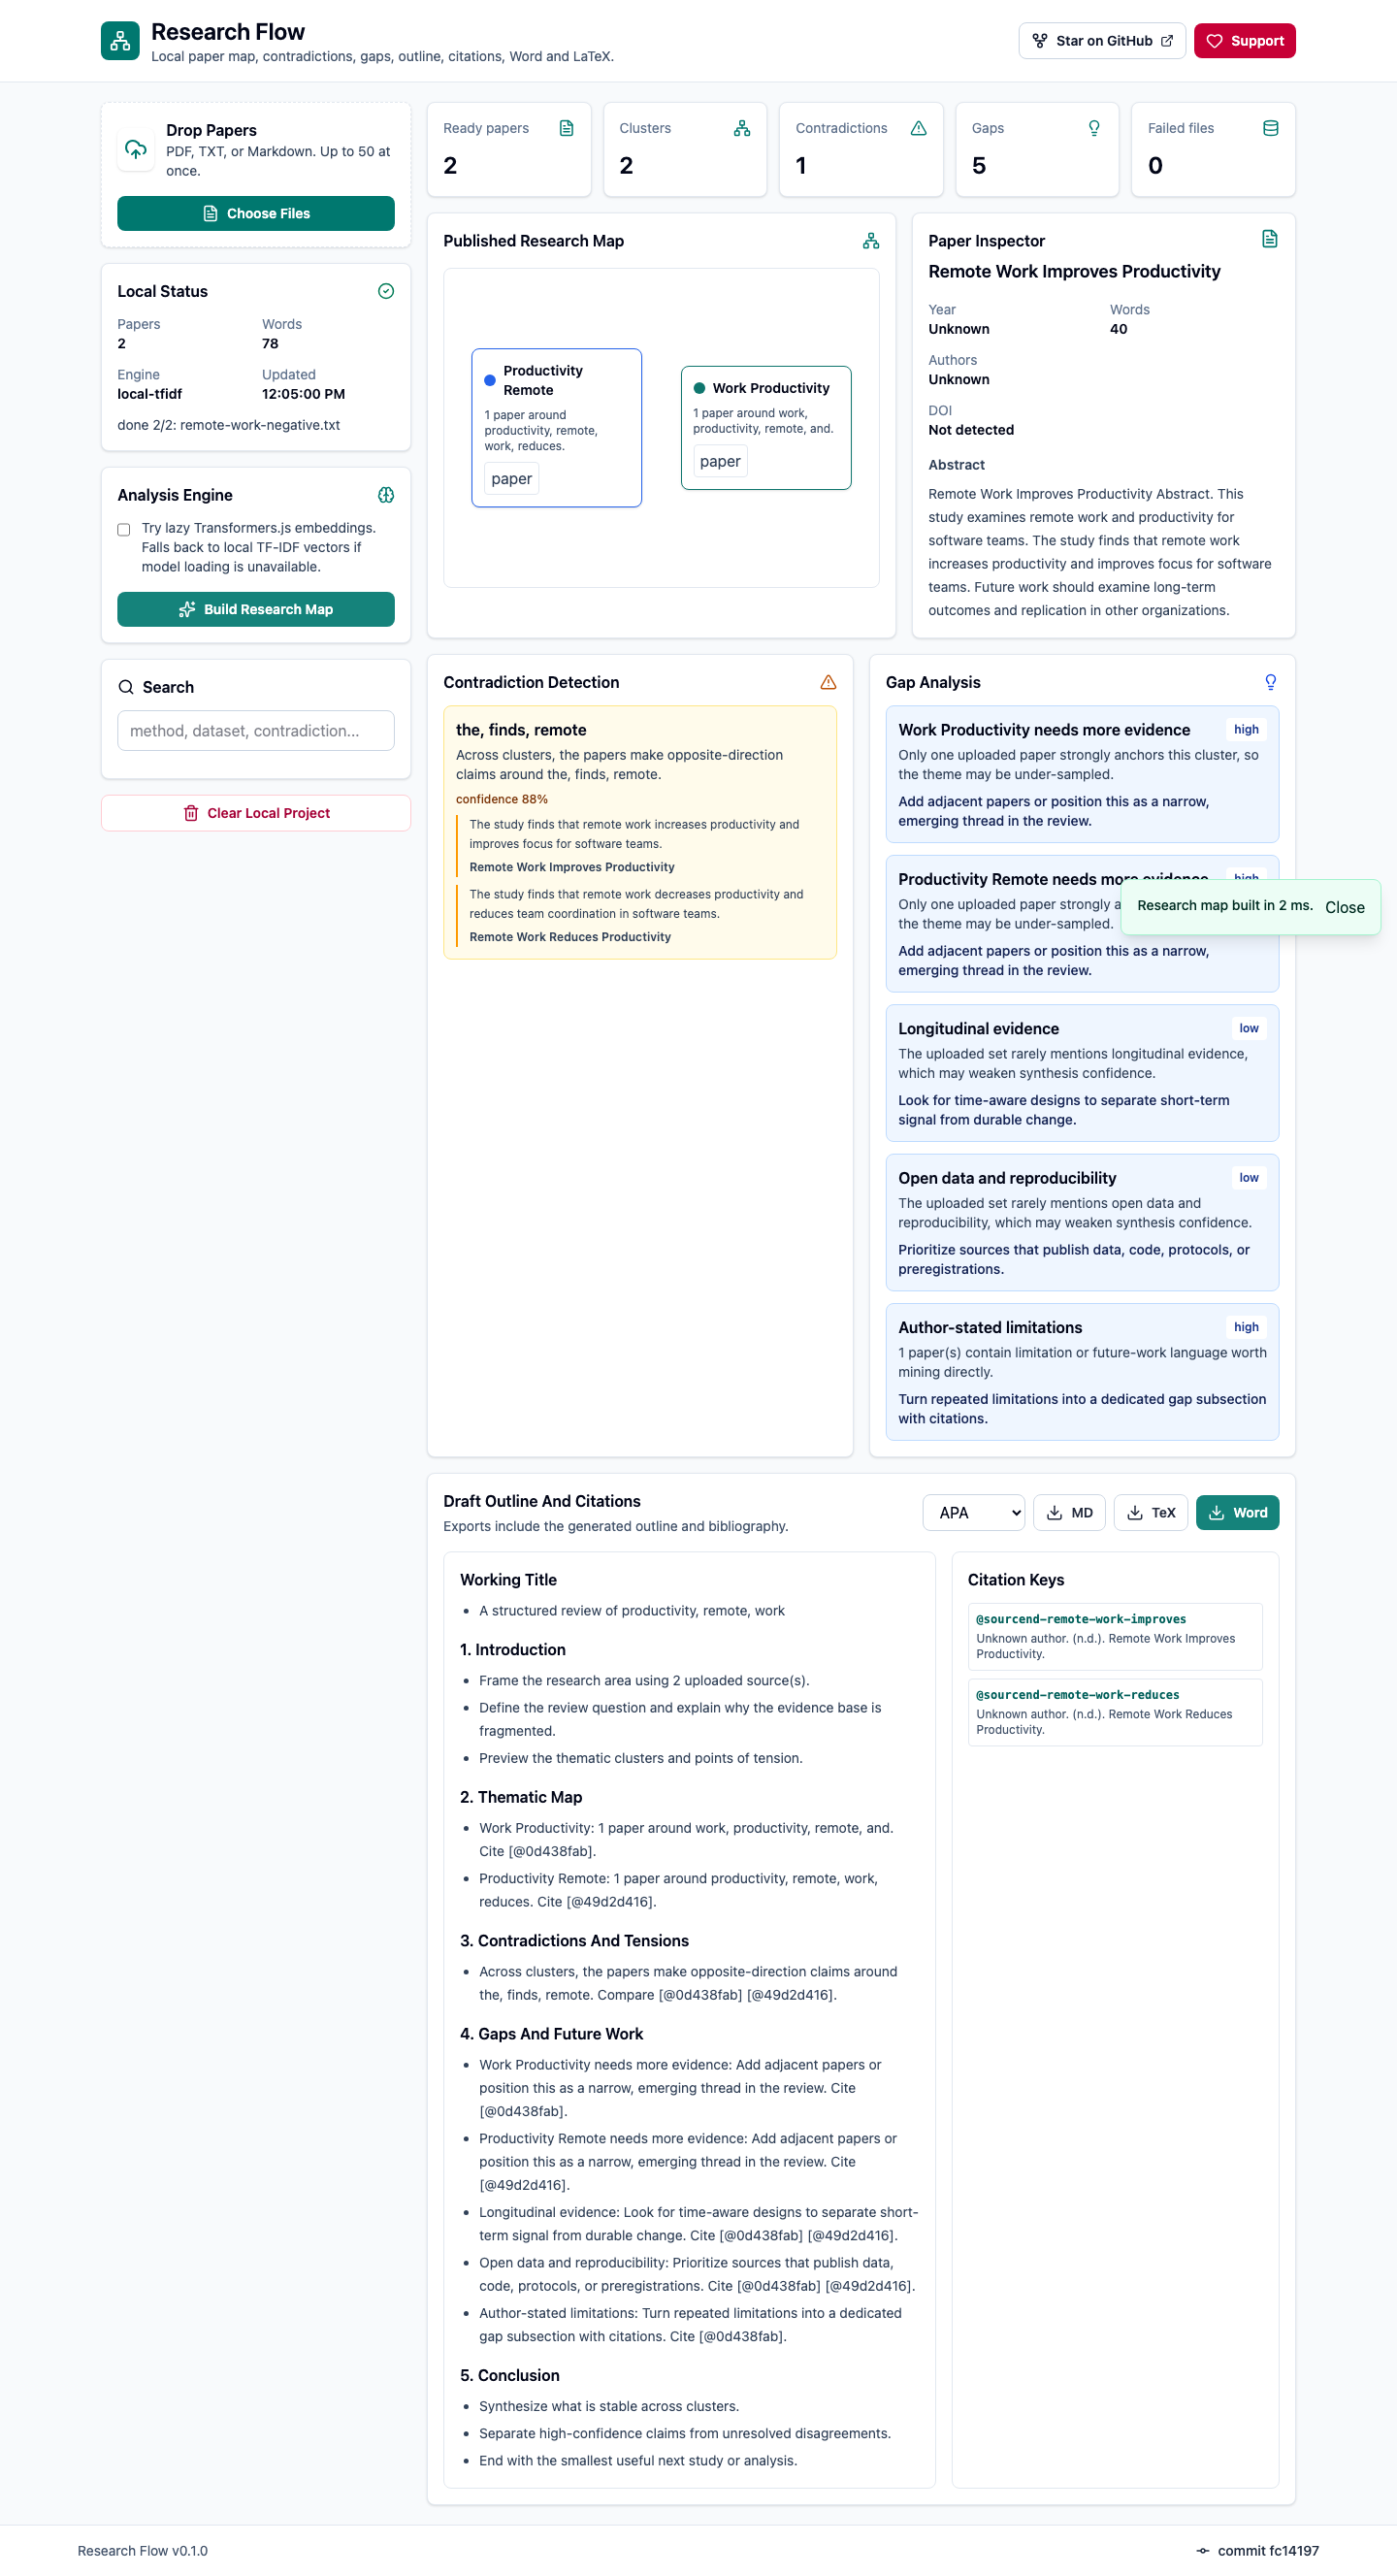
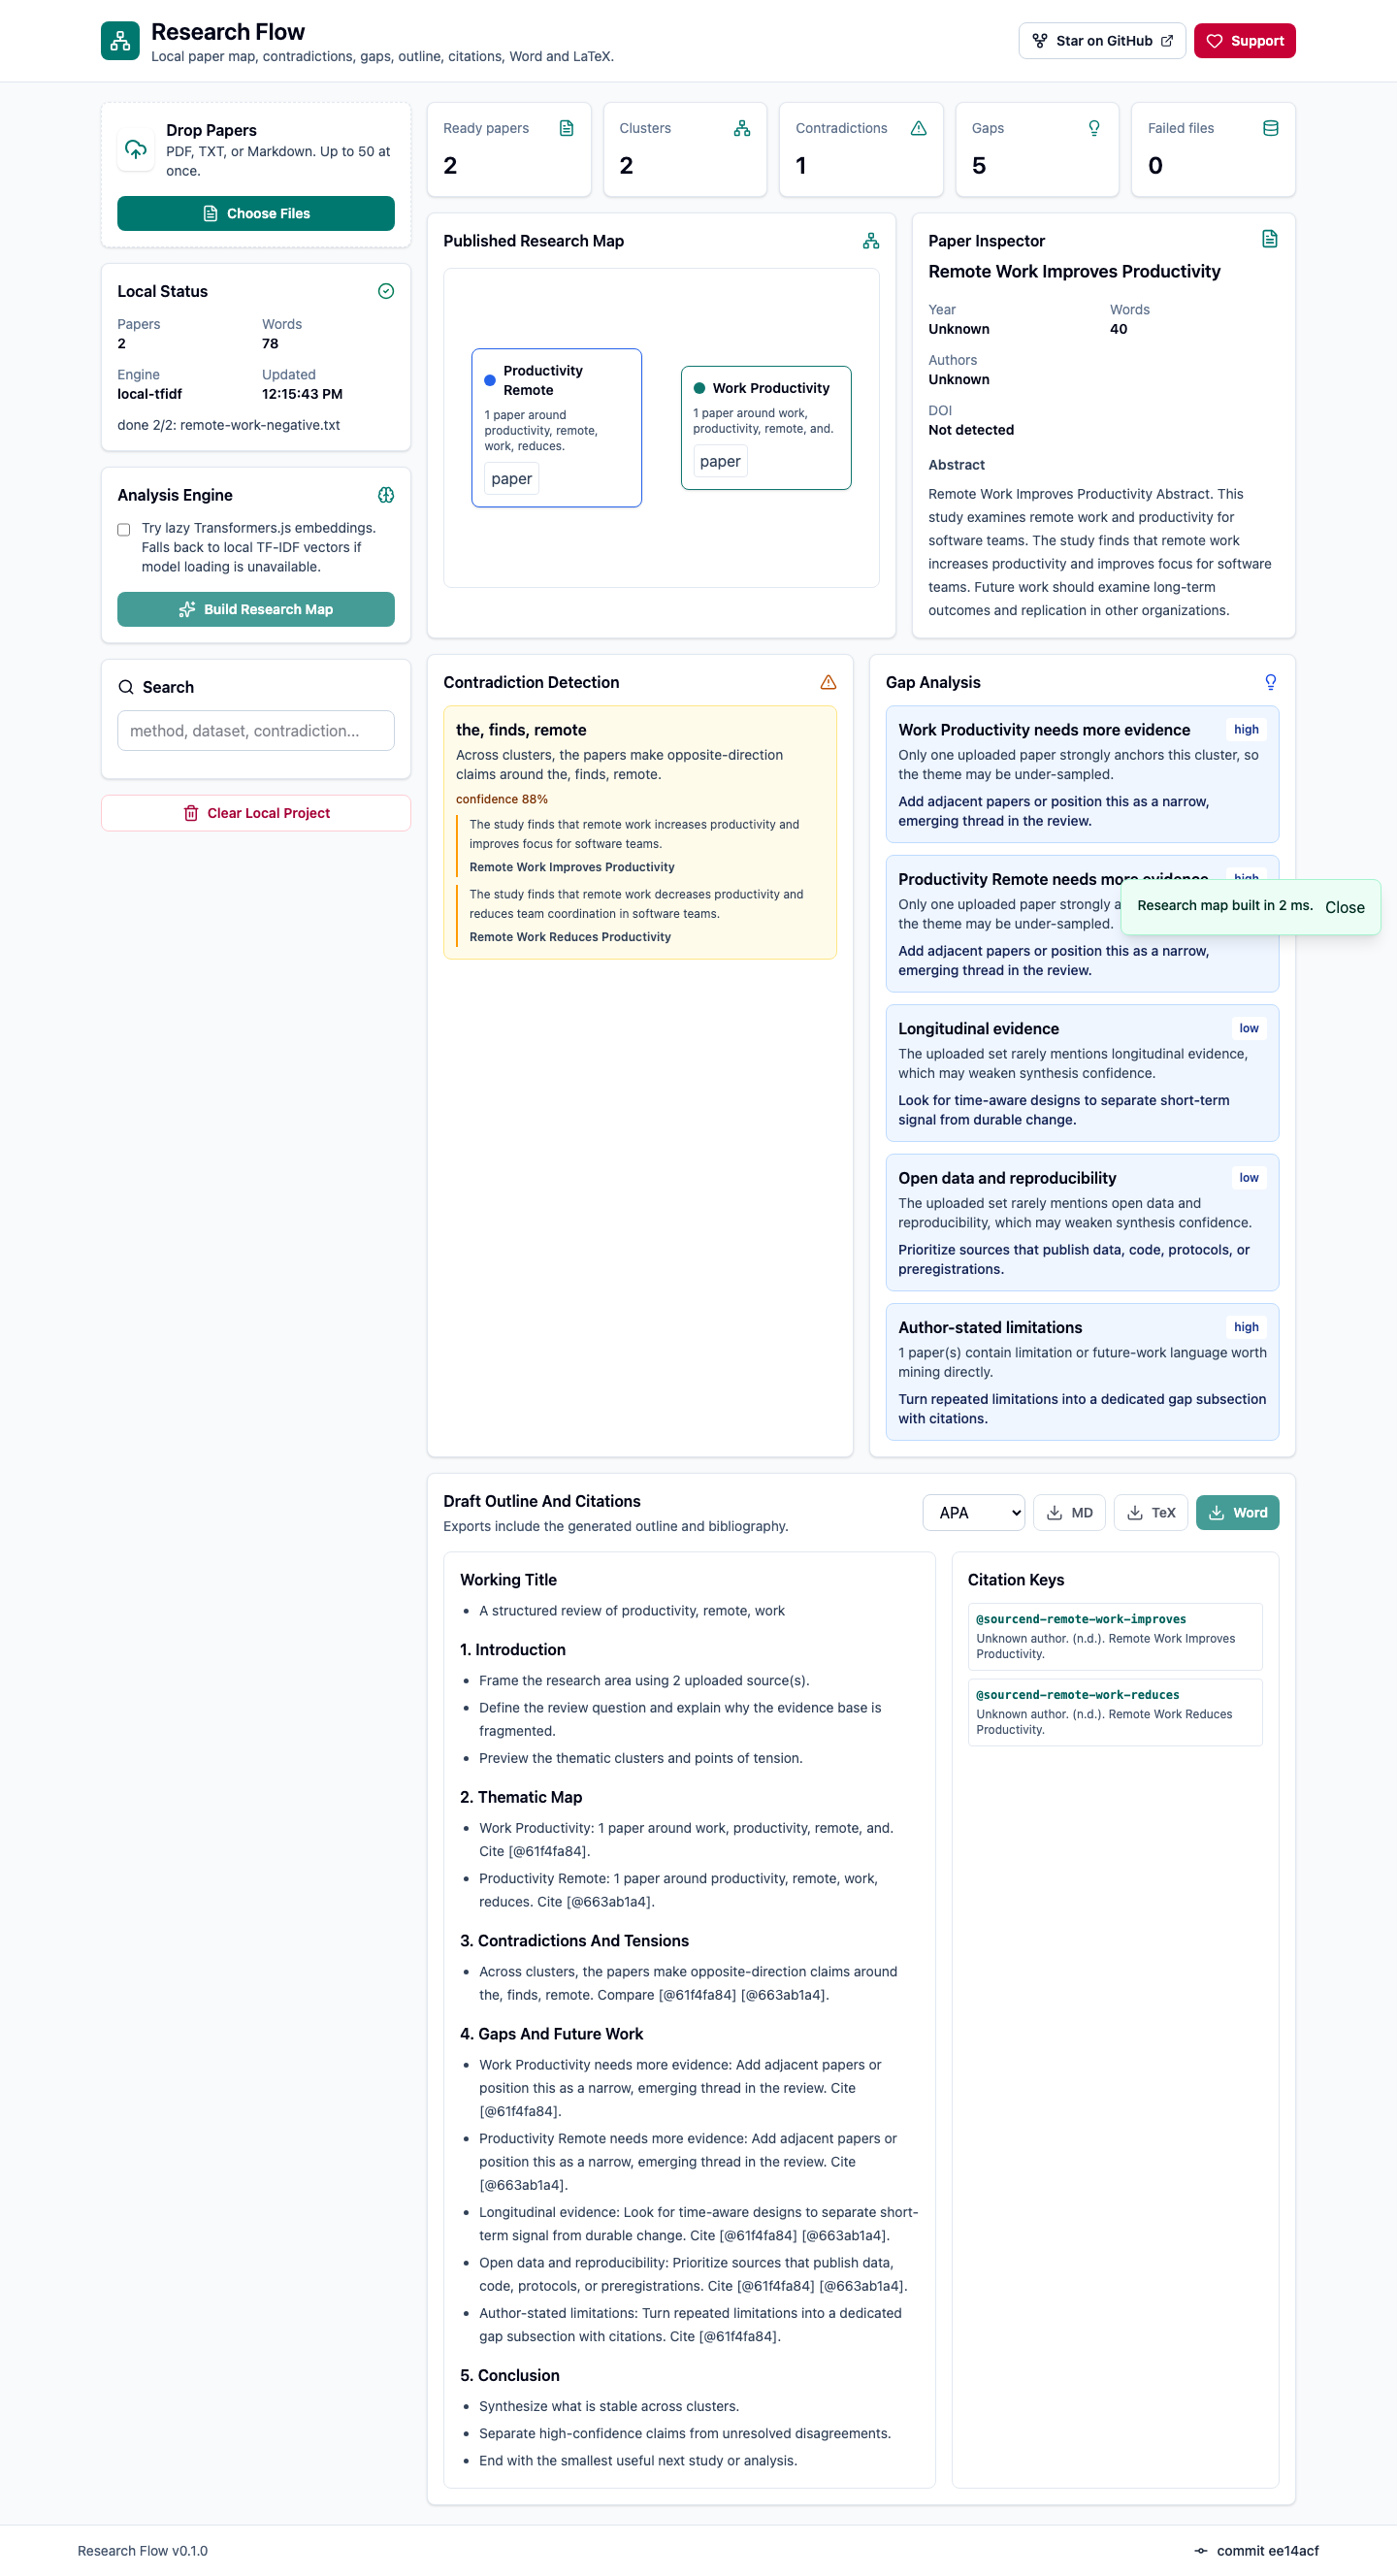
chore: publish pages build metadata

diff --git a/docs/assets/index-DLYIzA8H.js b/docs/assets/index-DLYIzA8H.js
@@ -1,0 +1,46 @@
+const __vite__mapDeps=(i,m=__vite__mapDeps,d=(m.f||(m.f=["assets/exports-D5vGKxcA.js","assets/rolldown-runtime-S-ySWqyJ.js","assets/pdf-v2ivPw7M.js"])))=>i.map(i=>d[i]);
+import{r as e}from"./rolldown-runtime-S-ySWqyJ.js";import{A as t,C as n,D as r,E as i,O as a,S as o,T as s,_ as c,a as l,b as u,c as ee,d,f,g as te,h as ne,i as p,k as m,l as re,m as ie,n as h,o as g,p as _,r as v,s as y,t as b,u as x,v as S,w as C,x as w,y as T}from"./vendor-Bxf50lv0.js";import{r as E}from"./pdf-v2ivPw7M.js";import{t as D}from"./search-C9dw7tVG.js";(function(){let e=document.createElement(`link`).relList;if(e&&e.supports&&e.supports(`modulepreload`))return;for(let e of document.querySelectorAll(`link[rel="modulepreload"]`))n(e);new MutationObserver(e=>{for(let t of e)if(t.type===`childList`)for(let e of t.addedNodes)e.tagName===`LINK`&&e.rel===`modulepreload`&&n(e)}).observe(document,{childList:!0,subtree:!0});function t(e){let t={};return e.integrity&&(t.integrity=e.integrity),e.referrerPolicy&&(t.referrerPolicy=e.referrerPolicy),e.crossOrigin===`use-credentials`?t.credentials=`include`:e.crossOrigin===`anonymous`?t.credentials=`omit`:t.credentials=`same-origin`,t}function n(e){if(e.ep)return;e.ep=!0;let n=t(e);fetch(e.href,n)}})();var O=e(m(),1),k=e(s(),1);function A(e,t=`apa`){return e.map(e=>{let n=j(e);return{paperId:e.id,key:n,inline:M(e,t),bibliography:N(e,t),bibtex:F(e,n)}})}function j(e){let t=e.authors[0]?.split(/\s+/).at(-1)??`source`,n=e.year??`nd`,r=e.title.toLowerCase().replace(/[^a-z0-9]+/g,`-`).replace(/^-|-$/g,``).split(`-`).slice(0,3).join(`-`);return`${t.toLowerCase()}${n}${r?`-${r}`:``}`.replace(/[^a-z0-9-]/g,``)}function M(e,t){let n=e.authors[0]?.split(/\s+/).at(-1)??I(e.title),r=e.year??`n.d.`;return t===`mla`?`(${n})`:t===`chicago`?`(${n} ${r})`:`(${n}, ${r})`}function N(e,t){let n=e.authors.length?e.authors.join(`, `):`Unknown author`,r=e.year??`n.d.`,i=e.doi?` https://doi.org/${e.doi.replace(/^https?:\/\/doi.org\//,``)}`:``;return t===`mla`?`${n}. "${e.title}." ${r}.${i}`:t===`chicago`?`${n}. ${r}. "${e.title}."${i}`:`${n}. (${r}). ${e.title}.${i}`}function P(e,t){return A(e,t).map(e=>e.bibliography).sort((e,t)=>e.localeCompare(t)).join(`
+`)}function F(e,t=j(e)){return`@article{${t},\n${[[`title`,e.title],[`author`,e.authors.join(` and `)],[`year`,e.year],[`doi`,e.doi]].filter(([,e])=>!!e).map(([e,t])=>`  ${e} = {${ae(t??``)}}`).join(`,
+`)}\n}`}function I(e){return e.split(/\s+/).slice(0,3).join(` `)}function ae(e){return e.replace(/[{}]/g,``)}function oe({papers:e,analysis:t,style:n}){let r=t.outline.map(e=>{let t=e.heading.replace(/^\d+\.\s*/,``),n=e.bullets.map(e=>`\\item ${z(e)}`).join(`
+`);return`\\section{${z(t)}}\n\\begin{itemize}\n${n}\n\\end{itemize}`}).join(`
+
+`);return`\\documentclass[11pt]{article}
+\\usepackage[margin=1in]{geometry}
+\\usepackage{hyperref}
+\\title{Research Flow Draft}
+\\author{Generated locally by Research Flow}
+\\date{${new Date(t.generatedAt).toLocaleDateString()}}
+
+\\begin{document}
+\\maketitle
+
+${r}
+
+\\section*{References}
+\\begin{verbatim}
+${P(e,n)}
+\\end{verbatim}
+
+\\end{document}
+`}function se({papers:e,analysis:t,style:n}){let r=t.outline.map(le).join(`
+
+`);return`# Research Flow Draft
+
+Generated locally on ${new Date(t.generatedAt).toLocaleString()}.
+
+${r}
+
+## References
+
+${P(e,n).split(`
+`).map(e=>`- ${e}`).join(`
+`)}
+`}async function ce(e){let t=await E(()=>import(`./exports-D5vGKxcA.js`).then(e=>e.t),__vite__mapDeps([0,1])),n=new t.Document({sections:[{properties:{},children:[new t.Paragraph({text:`Research Flow Draft`,heading:t.HeadingLevel.TITLE}),new t.Paragraph({children:[new t.TextRun({text:`Generated locally on ${new Date(e.analysis.generatedAt).toLocaleString()}`,italics:!0})]}),...e.analysis.outline.flatMap(e=>ue(e,t)),new t.Paragraph({text:`References`,heading:t.HeadingLevel.HEADING_1}),...P(e.papers,e.style).split(`
+`).map(e=>new t.Paragraph({text:e,bullet:{level:0}}))]}]});return t.Packer.toBlob(n)}function L(e,t){let n=URL.createObjectURL(t),r=document.createElement(`a`);r.href=n,r.download=e,r.click(),URL.revokeObjectURL(n)}function R(e,t,n=`text/plain;charset=utf-8`){L(e,new Blob([t],{type:n}))}function le(e){return`## ${e.heading}\n\n${e.bullets.map(e=>`- ${e}`).join(`
+`)}`}function ue(e,t){return[new t.Paragraph({text:e.heading,heading:t.HeadingLevel.HEADING_1}),...e.bullets.map(e=>new t.Paragraph({text:e,bullet:{level:0}}))]}function z(e){return e.replace(/\\/g,`\\textbackslash{}`).replace(/([#$%&_{}])/g,`\\$1`).replace(/\^/g,`\\textasciicircum{}`).replace(/~/g,`\\textasciitilde{}`)}var B=/\b10\.\d{4,9}\/[-._;()/:A-Z0-9]+\b/i,V=/\b(19|20)\d{2}\b/;async function H(e,t){let n=[];for(let[r,i]of e.entries()){t?.({fileName:i.name,index:r,total:e.length,phase:`reading`});try{let a=await U(i,n=>t?.({fileName:i.name,index:r,total:e.length,phase:n}));n.push(a),t?.({fileName:i.name,index:r,total:e.length,phase:`done`})}catch(a){n.push(fe(i,a)),t?.({fileName:i.name,index:r,total:e.length,phase:`failed`})}}return n}async function U(e,t){let n=W(e);if(t?.(`extracting`),n===`pdf`)return de(e,n,t);if(n===`text`||n===`markdown`){let r=await e.text();return t?.(`metadata`),G(e,n,r,{})}throw Error(`Unsupported file type. Upload PDF, TXT, or Markdown files.`)}function W(e){let t=e.name.toLowerCase();return e.type===`application/pdf`||t.endsWith(`.pdf`)?`pdf`:e.type.startsWith(`text/`)||t.endsWith(`.txt`)?`text`:t.endsWith(`.md`)||t.endsWith(`.markdown`)?`markdown`:`unknown`}async function de(e,t,n){let r=await E(()=>import(`./pdf-v2ivPw7M.js`).then(e=>e.n),__vite__mapDeps([2,1])),i=await E(()=>import(`./pdf-v2ivPw7M.js`).then(e=>e.t),__vite__mapDeps([2,1]));r.GlobalWorkerOptions.workerSrc=i.default;let a=new Uint8Array(await e.arrayBuffer()),o=await r.getDocument({data:a}).promise,s=[];for(let e=1;e<=o.numPages;e+=1){let t=await(await o.getPage(e)).getTextContent();s.push(t.items.map(e=>e.str??``).join(` `))}n?.(`metadata`);let c=await o.getMetadata().catch(()=>void 0);return G(e,t,s.join(`
+
+`),{pageCount:o.numPages,title:c?.info?.Title,authors:c?.info?.Author?q(c.info.Author):void 0})}function G(e,t,n,r){let i=ge(n),a=me(r.title)??pe(i,e.name),o=K(i),s=i.match(B)?.[0],c=i.match(V)?.[0],l=r.authors?.length?r.authors:he(i,a);return{id:crypto.randomUUID(),fileName:e.name,sourceType:t,title:a,authors:l,year:c,doi:s,abstract:o,text:i,wordCount:_e(i),pageCount:r.pageCount,addedAt:new Date().toISOString(),status:`ready`}}function fe(e,t){let n=t instanceof Error?t.message:`Unknown extraction error`;return{id:crypto.randomUUID(),fileName:e.name,sourceType:W(e),title:e.name,authors:[],text:``,wordCount:0,addedAt:new Date().toISOString(),status:`failed`,error:n}}function pe(e,t){return e.split(/\n+/).map(e=>e.trim()).filter(e=>e.length>=8&&e.length<=180).find(e=>!/^(abstract|introduction|keywords)$/i.test(e))??t.replace(/\.[^.]+$/,``).replace(/[-_]+/g,` `)}function me(e){let t=e?.trim();if(!(!t||t.toLowerCase()===`untitled`))return t.replace(/\s+/g,` `)}function he(e,t){let n=(e.split(/abstract/i)[0]??``).split(/\n+/).map(e=>e.trim()).filter(Boolean),r=n.findIndex(e=>e.includes(t.slice(0,24))),i=n.slice(Math.max(0,r+1),r+4).find(e=>/,| and |;/.test(e)&&!V.test(e));return i?q(i):[]}function K(e){return e.match(/abstract\s*[:.\n]\s*([\s\S]{180,2500}?)(?:\n\s*(?:keywords|introduction|1\.|i\.))/i)?.[1]?.replace(/\s+/g,` `).trim()}function q(e){return e.replace(/\d+/g,``).split(/;|,|\band\b/gi).map(e=>e.trim()).filter(e=>e.length>1&&e.length<80).slice(0,12)}function ge(e){return e.replace(/\r/g,`
+`).replace(/[ \t]+/g,` `).replace(/\n{3,}/g,`
+
+`).trim()}function _e(e){return e.trim()?e.trim().split(/\s+/).length:0}function ve(e){let t=new D({fields:[`title`,`authors`,`abstract`,`text`],storeFields:[`title`,`fileName`,`text`],searchOptions:{boost:{title:3,abstract:2,authors:1.5},fuzzy:.2,prefix:!0}});return t.addAll(e.filter(e=>e.status===`ready`).map(e=>({id:e.id,title:e.title,authors:e.authors.join(` `),abstract:e.abstract??``,text:e.text.slice(0,2e4),fileName:e.fileName}))),t}function ye(e,t){return t.trim()?ve(e).search(t).slice(0,8).map(e=>({id:e.id,title:e.title,fileName:e.fileName,score:e.score,snippet:be(e.text,t)})):[]}function be(e,t){let n=t.toLowerCase().split(/\s+/)[0]??``,r=n?e.toLowerCase().indexOf(n):-1,i=Math.max(0,r-90),a=e.slice(i,i+220).replace(/\s+/g,` `).trim();return`${i>0?`... `:``}${a}${i+220<e.length?` ...`:``}`}var xe=`research-flow`,J=`projects`,Y=`latest`,Se=p({schemaVersion:v(1),papers:h(b()),analysis:b().optional(),updatedAt:l()});async function Ce(e){let t=await X(),n={schemaVersion:1,...e,updatedAt:new Date().toISOString()};return await t.put(J,n,Y),n}async function we(){let e=await(await X()).get(J,Y),t=Se.safeParse(e);return t.success?t.data:void 0}async function Te(){await(await X()).delete(J,Y)}async function X(){return g(xe,1,{upgrade(e){e.objectStoreNames.contains(J)||e.createObjectStore(J)}})}var Z={version:`0.1.0`,commit:`ee14acf`,fullCommit:`ee14acfeb5824726f67a42efdf4eda9e288f0ef9`,repositoryUrl:`https://github.com/baditaflorin/research-flow`,paypalUrl:`https://www.paypal.com/paypalme/florinbadita`,pagesUrl:`https://baditaflorin.github.io/research-flow/`};function Ee(){return Z.fullCommit===`local`?Z.repositoryUrl:`${Z.repositoryUrl}/commit/${Z.fullCommit}`}function De(e,t){return`${e.toLocaleString()} ${e===1?t:`${t}s`}`}function Oe(e){return e<1e3?`${Math.round(e)} ms`:e<6e4?`${(e/1e3).toFixed(1)} s`:`${Math.floor(e/6e4)}m ${Math.round(e%6e4/1e3)}s`}var Q=a();function ke(){let e=(0,O.useRef)(null),[t,r]=(0,O.useState)([]),[a,o]=(0,O.useState)(),[s,c]=(0,O.useState)(``),[l,u]=(0,O.useState)(),[d,p]=(0,O.useState)(`apa`),[m,h]=(0,O.useState)(!1),[g,_]=(0,O.useState)(),[v,y]=(0,O.useState)(!1),[b,x]=(0,O.useState)(),C=t.filter(e=>e.status===`ready`),w=t.filter(e=>e.status===`failed`),T=t.find(e=>e.id===l)??C[0],E=(0,O.useMemo)(()=>ye(C,s),[C,s]),D=C.reduce((e,t)=>e+t.wordCount,0),k=i({mutationFn:e=>ze(e),onSuccess(e){o(e),x({tone:`success`,message:`Research map built in ${Oe(e.durationMs)}.`})},onError(e){x({tone:`error`,message:e instanceof Error?e.message:`Analysis failed.`})}});(0,O.useEffect)(()=>{let e=!0;return we().then(t=>{!e||!t||(r(t.papers),o(t.analysis),x({tone:`info`,message:`Restored the last local project from this browser.`}))}).catch(()=>x({tone:`error`,message:`Could not load the saved browser project.`})),()=>{e=!1}},[]),(0,O.useEffect)(()=>{if(!t.length)return;let e=window.setTimeout(()=>{Ce({papers:t,analysis:a}).catch(()=>x({tone:`error`,message:`Could not save this project in browser storage.`}))},500);return()=>window.clearTimeout(e)},[t,a]);async function A(e){let n=Array.from(e).slice(0,50);if(!n.length)return;y(!0),_(void 0),x({tone:`info`,message:`Reading ${De(n.length,`file`)} locally.`});let i=await H(n,_),a=[...t,...i];r(a),u(i.find(e=>e.status===`ready`)?.id??l),y(!1);let o=a.filter(e=>e.status===`ready`);o.length&&k.mutate({papers:o,options:{useDeepEmbeddings:m}})}function j(){C.length&&k.mutate({papers:C,options:{useDeepEmbeddings:m}})}async function M(){r([]),o(void 0),u(void 0),c(``),await Te(),x({tone:`success`,message:`Cleared the local project from this browser.`})}async function N(){a&&L(`research-flow-draft.docx`,await ce({papers:C,analysis:a,style:d}))}function P(){a&&R(`research-flow-draft.tex`,oe({papers:C,analysis:a,style:d}),`application/x-tex;charset=utf-8`)}function F(){a&&R(`research-flow-draft.md`,se({papers:C,analysis:a,style:d}),`text/markdown;charset=utf-8`)}return(0,Q.jsxs)(`main`,{className:`min-h-screen bg-slate-50 text-slate-950`,children:[(0,Q.jsx)(`header`,{className:`border-b border-slate-200 bg-white`,children:(0,Q.jsxs)(`div`,{className:`mx-auto flex max-w-7xl flex-col gap-4 px-4 py-4 sm:px-6 lg:flex-row lg:items-center lg:justify-between`,children:[(0,Q.jsx)(`div`,{children:(0,Q.jsxs)(`div`,{className:`flex items-center gap-3`,children:[(0,Q.jsx)(`div`,{className:`grid size-10 place-items-center rounded-lg bg-teal-700 text-white`,children:(0,Q.jsx)(f,{size:22,"aria-hidden":`true`})}),(0,Q.jsxs)(`div`,{children:[(0,Q.jsx)(`h1`,{className:`text-2xl font-semibold tracking-normal`,children:`Research Flow`}),(0,Q.jsx)(`p`,{className:`text-sm text-slate-600`,children:`Local paper map, contradictions, gaps, outline, citations, Word and LaTeX.`})]})]})}),(0,Q.jsxs)(`nav`,{className:`flex flex-wrap items-center gap-2`,"aria-label":`Project links`,children:[(0,Q.jsxs)(`a`,{className:`button secondary`,href:Z.repositoryUrl,target:`_blank`,rel:`noreferrer`,children:[(0,Q.jsx)(ne,{size:18,"aria-hidden":`true`}),`Star on GitHub`,(0,Q.jsx)(S,{size:14,"aria-hidden":`true`})]}),(0,Q.jsxs)(`a`,{className:`button support`,href:Z.paypalUrl,target:`_blank`,rel:`noreferrer`,children:[(0,Q.jsx)(ie,{size:18,"aria-hidden":`true`}),`Support`]})]})]})}),(0,Q.jsxs)(`section`,{className:`mx-auto grid max-w-7xl gap-4 px-4 py-5 sm:px-6 lg:grid-cols-[minmax(260px,320px)_1fr]`,children:[(0,Q.jsxs)(`aside`,{className:`space-y-4`,children:[(0,Q.jsx)(Ae,{disabled:v,onPick:()=>e.current?.click(),onFiles:A}),(0,Q.jsx)(`input`,{ref:e,className:`sr-only`,type:`file`,multiple:!0,accept:`.pdf,.txt,.md,.markdown,application/pdf,text/plain,text/markdown`,onChange:e=>e.target.files&&void A(e.target.files)}),(0,Q.jsx)(je,{papers:t,totalWords:D,progress:g,isExtracting:v,isAnalyzing:k.isPending,analysis:a}),(0,Q.jsxs)(`div`,{className:`panel`,children:[(0,Q.jsxs)(`div`,{className:`flex items-center justify-between gap-3`,children:[(0,Q.jsx)(`h2`,{className:`panel-title`,children:`Analysis Engine`}),(0,Q.jsx)(n,{size:18,"aria-hidden":`true`,className:`text-teal-700`})]}),(0,Q.jsxs)(`label`,{className:`mt-3 flex items-start gap-3 text-sm text-slate-700`,children:[(0,Q.jsx)(`input`,{type:`checkbox`,className:`mt-1 size-4 accent-teal-700`,checked:m,onChange:e=>h(e.target.checked)}),(0,Q.jsx)(`span`,{children:`Try lazy Transformers.js embeddings. Falls back to local TF-IDF vectors if model loading is unavailable.`})]}),(0,Q.jsxs)(`button`,{className:`button primary mt-4 w-full`,type:`button`,disabled:!C.length||k.isPending,onClick:j,children:[(0,Q.jsx)(re,{size:18,"aria-hidden":`true`}),`Build Research Map`]})]}),(0,Q.jsx)(Me,{query:s,onQueryChange:c,results:E,onSelect:u}),(0,Q.jsxs)(`button`,{className:`button danger w-full`,type:`button`,onClick:()=>void M(),children:[(0,Q.jsx)(ee,{size:18,"aria-hidden":`true`}),`Clear Local Project`]})]}),(0,Q.jsxs)(`section`,{className:`space-y-4`,children:[(0,Q.jsx)(Ne,{papers:C,failed:w.length,analysis:a}),(0,Q.jsxs)(`div`,{className:`grid gap-4 xl:grid-cols-[1.1fr_0.9fr]`,children:[(0,Q.jsx)(Pe,{analysis:a,papers:C,onSelectPaper:u}),(0,Q.jsx)(Fe,{paper:T})]}),(0,Q.jsx)(Ie,{analysis:a,papers:C}),(0,Q.jsx)(Le,{analysis:a,citationStyle:d,onCitationStyleChange:p,onExportDocx:()=>void N(),onExportLatex:P,onExportMarkdown:F})]})]}),(0,Q.jsx)(`footer`,{className:`border-t border-slate-200 bg-white px-4 py-4 text-sm text-slate-600`,children:(0,Q.jsxs)(`div`,{className:`mx-auto flex max-w-7xl flex-wrap items-center justify-between gap-3`,children:[(0,Q.jsxs)(`span`,{children:[`Research Flow v`,Z.version]}),(0,Q.jsxs)(`a`,{className:`inline-flex items-center gap-2 font-medium text-slate-800`,href:Ee(),children:[(0,Q.jsx)(te,{size:16,"aria-hidden":`true`}),`commit `,Z.commit]})]})}),(0,Q.jsx)(`div`,{className:`sr-only`,"aria-live":`polite`,children:b?.message}),b?(0,Q.jsx)(Re,{toast:b,onClose:()=>x(void 0)}):null]})}function Ae({disabled:e,onPick:t,onFiles:n}){return(0,Q.jsxs)(`div`,{className:`panel border-dashed border-teal-300 bg-teal-50/60`,onDragOver:e=>e.preventDefault(),onDrop:e=>{e.preventDefault(),n(Array.from(e.dataTransfer.files))},children:[(0,Q.jsxs)(`div`,{className:`flex items-center gap-3`,children:[(0,Q.jsx)(`div`,{className:`grid size-11 place-items-center rounded-lg bg-white text-teal-700 shadow-sm`,children:(0,Q.jsx)(w,{size:24,"aria-hidden":`true`})}),(0,Q.jsxs)(`div`,{children:[(0,Q.jsx)(`h2`,{className:`panel-title`,children:`Drop Papers`}),(0,Q.jsx)(`p`,{className:`text-sm text-slate-700`,children:`PDF, TXT, or Markdown. Up to 50 at once.`})]})]}),(0,Q.jsxs)(`button`,{className:`button primary mt-4 w-full`,type:`button`,disabled:e,onClick:t,children:[(0,Q.jsx)(c,{size:18,"aria-hidden":`true`}),`Choose Files`]})]})}function je({papers:e,totalWords:t,progress:n,isExtracting:r,isAnalyzing:i,analysis:a}){return(0,Q.jsxs)(`div`,{className:`panel`,children:[(0,Q.jsxs)(`div`,{className:`flex items-center justify-between gap-3`,children:[(0,Q.jsx)(`h2`,{className:`panel-title`,children:`Local Status`}),r||i?(0,Q.jsx)(d,{size:18,className:`animate-spin text-blue-700`,"aria-hidden":`true`}):(0,Q.jsx)(o,{size:18,className:`text-emerald-700`,"aria-hidden":`true`})]}),(0,Q.jsxs)(`dl`,{className:`mt-3 grid grid-cols-2 gap-3 text-sm`,children:[(0,Q.jsxs)(`div`,{children:[(0,Q.jsx)(`dt`,{className:`text-slate-500`,children:`Papers`}),(0,Q.jsx)(`dd`,{className:`font-semibold`,children:e.length})]}),(0,Q.jsxs)(`div`,{children:[(0,Q.jsx)(`dt`,{className:`text-slate-500`,children:`Words`}),(0,Q.jsx)(`dd`,{className:`font-semibold`,children:t.toLocaleString()})]}),(0,Q.jsxs)(`div`,{children:[(0,Q.jsx)(`dt`,{className:`text-slate-500`,children:`Engine`}),(0,Q.jsx)(`dd`,{className:`font-semibold`,children:a?.engine??`not run`})]}),(0,Q.jsxs)(`div`,{children:[(0,Q.jsx)(`dt`,{className:`text-slate-500`,children:`Updated`}),(0,Q.jsx)(`dd`,{className:`font-semibold`,children:a?new Date(a.generatedAt).toLocaleTimeString():`pending`})]})]}),n?(0,Q.jsxs)(`p`,{className:`mt-3 text-sm text-slate-700`,children:[n.phase,` `,n.index+1,`/`,n.total,`: `,n.fileName]}):null]})}function Me({query:e,onQueryChange:t,results:n,onSelect:r}){return(0,Q.jsxs)(`div`,{className:`panel`,children:[(0,Q.jsxs)(`label`,{className:`panel-title flex items-center gap-2`,htmlFor:`paper-search`,children:[(0,Q.jsx)(x,{size:18,"aria-hidden":`true`}),`Search`]}),(0,Q.jsx)(`input`,{id:`paper-search`,className:`mt-3 w-full rounded-lg border border-slate-300 bg-white px-3 py-2 text-sm outline-none ring-teal-700 focus:ring-2`,value:e,onChange:e=>t(e.target.value),placeholder:`method, dataset, contradiction...`}),(0,Q.jsxs)(`div`,{className:`mt-3 space-y-2`,children:[n.map(e=>(0,Q.jsxs)(`button`,{className:`w-full rounded-lg border border-slate-200 bg-white p-3 text-left hover:border-teal-500`,type:`button`,onClick:()=>r(e.id),children:[(0,Q.jsx)(`span`,{className:`block text-sm font-semibold text-slate-900`,children:e.title}),(0,Q.jsx)(`span`,{className:`mt-1 block text-xs text-slate-600`,children:e.snippet})]},e.id)),e&&!n.length?(0,Q.jsx)(`p`,{className:`text-sm text-slate-600`,children:`No local matches.`}):null]})]})}function Ne({papers:e,failed:t,analysis:n}){return(0,Q.jsx)(`div`,{className:`grid gap-3 sm:grid-cols-2 xl:grid-cols-5`,children:[{label:`Ready papers`,value:e.length.toLocaleString(),icon:c},{label:`Clusters`,value:n?.clusters.length.toLocaleString()??`0`,icon:f},{label:`Contradictions`,value:n?.contradictions.length.toLocaleString()??`0`,icon:y},{label:`Gaps`,value:n?.gaps.length.toLocaleString()??`0`,icon:_},{label:`Failed files`,value:t.toLocaleString(),icon:u}].map(e=>(0,Q.jsxs)(`div`,{className:`panel min-h-24`,children:[(0,Q.jsxs)(`div`,{className:`flex items-center justify-between gap-3`,children:[(0,Q.jsx)(`span`,{className:`text-sm text-slate-500`,children:e.label}),(0,Q.jsx)(e.icon,{size:18,className:`text-teal-700`,"aria-hidden":`true`})]}),(0,Q.jsx)(`p`,{className:`mt-3 text-2xl font-semibold`,children:e.value})]},e.label))})}function Pe({analysis:e,papers:t,onSelectPaper:n}){let r=new Map(t.map(e=>[e.id,e]));return(0,Q.jsxs)(`div`,{className:`panel min-h-[420px]`,children:[(0,Q.jsxs)(`div`,{className:`flex items-center justify-between gap-3`,children:[(0,Q.jsx)(`h2`,{className:`panel-title`,children:`Published Research Map`}),(0,Q.jsx)(f,{size:18,"aria-hidden":`true`,className:`text-teal-700`})]}),(0,Q.jsx)(`div`,{className:`relative mt-4 min-h-[330px] overflow-hidden rounded-lg border border-slate-200 bg-white`,children:e?.clusters.length?e.clusters.map(e=>(0,Q.jsxs)(`div`,{className:`absolute w-44 -translate-x-1/2 -translate-y-1/2 rounded-lg border bg-white p-3 shadow-sm`,style:{left:`${e.x}%`,top:`${e.y}%`,borderColor:e.color},children:[(0,Q.jsxs)(`div`,{className:`flex items-center gap-2`,children:[(0,Q.jsx)(`span`,{className:`size-3 rounded-full`,style:{backgroundColor:e.color}}),(0,Q.jsx)(`h3`,{className:`text-sm font-semibold`,children:e.label})]}),(0,Q.jsx)(`p`,{className:`mt-2 text-xs text-slate-600`,children:e.summary}),(0,Q.jsx)(`div`,{className:`mt-2 flex flex-wrap gap-1`,children:e.paperIds.slice(0,4).map(e=>(0,Q.jsx)(`button`,{type:`button`,className:`rounded border border-slate-200 px-1.5 py-1 text-xs text-slate-700 hover:border-teal-500`,onClick:()=>n(e),title:r.get(e)?.title,children:r.get(e)?.year??`paper`},e))})]},e.id)):(0,Q.jsx)(`div`,{className:`grid min-h-[330px] place-items-center p-6 text-center`,children:(0,Q.jsxs)(`div`,{children:[(0,Q.jsx)(C,{size:42,className:`mx-auto text-slate-400`,"aria-hidden":`true`}),(0,Q.jsx)(`p`,{className:`mt-3 font-medium`,children:`Drop papers to build the map.`}),(0,Q.jsx)(`p`,{className:`mt-1 text-sm text-slate-600`,children:`The first analysis runs locally after extraction finishes.`})]})})})]})}function Fe({paper:e}){return e?(0,Q.jsxs)(`div`,{className:`panel min-h-[420px]`,children:[(0,Q.jsxs)(`div`,{className:`flex items-start justify-between gap-3`,children:[(0,Q.jsxs)(`div`,{children:[(0,Q.jsx)(`h2`,{className:`panel-title`,children:`Paper Inspector`}),(0,Q.jsx)(`p`,{className:`mt-2 text-lg font-semibold leading-snug`,children:e.title})]}),(0,Q.jsx)(c,{size:20,className:`shrink-0 text-teal-700`,"aria-hidden":`true`})]}),(0,Q.jsxs)(`dl`,{className:`mt-4 grid grid-cols-2 gap-3 text-sm`,children:[(0,Q.jsxs)(`div`,{children:[(0,Q.jsx)(`dt`,{className:`text-slate-500`,children:`Year`}),(0,Q.jsx)(`dd`,{className:`font-semibold`,children:e.year??`Unknown`})]}),(0,Q.jsxs)(`div`,{children:[(0,Q.jsx)(`dt`,{className:`text-slate-500`,children:`Words`}),(0,Q.jsx)(`dd`,{className:`font-semibold`,children:e.wordCount.toLocaleString()})]}),(0,Q.jsxs)(`div`,{className:`col-span-2`,children:[(0,Q.jsx)(`dt`,{className:`text-slate-500`,children:`Authors`}),(0,Q.jsx)(`dd`,{className:`font-semibold`,children:e.authors.length?e.authors.join(`, `):`Unknown`})]}),(0,Q.jsxs)(`div`,{className:`col-span-2`,children:[(0,Q.jsx)(`dt`,{className:`text-slate-500`,children:`DOI`}),(0,Q.jsx)(`dd`,{className:`break-words font-semibold`,children:e.doi??`Not detected`})]})]}),(0,Q.jsxs)(`div`,{className:`mt-4`,children:[(0,Q.jsx)(`h3`,{className:`text-sm font-semibold text-slate-700`,children:`Abstract`}),(0,Q.jsx)(`p`,{className:`mt-2 max-h-52 overflow-auto text-sm leading-6 text-slate-700`,children:(e.abstract??e.text.slice(0,850))||e.error})]})]}):(0,Q.jsxs)(`div`,{className:`panel min-h-[420px]`,children:[(0,Q.jsx)(`h2`,{className:`panel-title`,children:`Paper Inspector`}),(0,Q.jsx)(`p`,{className:`mt-4 text-sm text-slate-600`,children:`Select or upload a paper to inspect metadata.`})]})}function Ie({analysis:e,papers:t}){let n=new Map(t.map(e=>[e.id,e]));return(0,Q.jsxs)(`div`,{className:`grid gap-4 xl:grid-cols-2`,children:[(0,Q.jsxs)(`div`,{className:`panel`,children:[(0,Q.jsxs)(`div`,{className:`flex items-center justify-between gap-3`,children:[(0,Q.jsx)(`h2`,{className:`panel-title`,children:`Contradiction Detection`}),(0,Q.jsx)(y,{size:18,className:`text-amber-700`,"aria-hidden":`true`})]}),(0,Q.jsx)(`div`,{className:`mt-3 space-y-3`,children:e?.contradictions.length?e.contradictions.map(e=>(0,Q.jsxs)(`article`,{className:`rounded-lg border border-amber-200 bg-amber-50 p-3`,children:[(0,Q.jsx)(`h3`,{className:`font-semibold`,children:e.topic}),(0,Q.jsx)(`p`,{className:`mt-1 text-sm text-slate-700`,children:e.summary}),(0,Q.jsxs)(`p`,{className:`mt-2 text-xs font-medium text-amber-900`,children:[`confidence `,Math.round(e.confidence*100),`%`]}),(0,Q.jsx)(`div`,{className:`mt-2 grid gap-2`,children:e.evidence.map(t=>(0,Q.jsxs)(`blockquote`,{className:`border-l-2 border-amber-500 pl-3 text-xs leading-5 text-slate-700`,children:[t.sentence,(0,Q.jsx)(`cite`,{className:`mt-1 block font-semibold not-italic`,children:n.get(t.paperId)?.title??t.title})]},`${e.id}-${t.paperId}`))})]},e.id)):(0,Q.jsx)($,{text:`No contradiction pairs yet. Add more papers or run the map.`})})]}),(0,Q.jsxs)(`div`,{className:`panel`,children:[(0,Q.jsxs)(`div`,{className:`flex items-center justify-between gap-3`,children:[(0,Q.jsx)(`h2`,{className:`panel-title`,children:`Gap Analysis`}),(0,Q.jsx)(_,{size:18,className:`text-blue-700`,"aria-hidden":`true`})]}),(0,Q.jsx)(`div`,{className:`mt-3 space-y-3`,children:e?.gaps.length?e.gaps.map(e=>(0,Q.jsxs)(`article`,{className:`rounded-lg border border-blue-200 bg-blue-50 p-3`,children:[(0,Q.jsxs)(`div`,{className:`flex items-center justify-between gap-3`,children:[(0,Q.jsx)(`h3`,{className:`font-semibold`,children:e.title}),(0,Q.jsx)(`span`,{className:`rounded bg-white px-2 py-1 text-xs font-semibold text-blue-900`,children:e.priority})]}),(0,Q.jsx)(`p`,{className:`mt-1 text-sm text-slate-700`,children:e.rationale}),(0,Q.jsx)(`p`,{className:`mt-2 text-sm font-medium text-blue-950`,children:e.opportunity})]},e.id)):(0,Q.jsx)($,{text:`Gap cards appear after analysis.`})})]})]})}function Le({analysis:e,citationStyle:t,onCitationStyleChange:n,onExportDocx:r,onExportLatex:i,onExportMarkdown:a}){return(0,Q.jsxs)(`div`,{className:`panel`,children:[(0,Q.jsxs)(`div`,{className:`flex flex-col gap-3 lg:flex-row lg:items-center lg:justify-between`,children:[(0,Q.jsxs)(`div`,{children:[(0,Q.jsx)(`h2`,{className:`panel-title`,children:`Draft Outline And Citations`}),(0,Q.jsx)(`p`,{className:`mt-1 text-sm text-slate-600`,children:`Exports include the generated outline and bibliography.`})]}),(0,Q.jsxs)(`div`,{className:`flex flex-wrap items-center gap-2`,children:[(0,Q.jsxs)(`select`,{className:`rounded-lg border border-slate-300 bg-white px-3 py-2 text-sm`,value:t,onChange:e=>n(e.target.value),"aria-label":`Citation style`,children:[(0,Q.jsx)(`option`,{value:`apa`,children:`APA`}),(0,Q.jsx)(`option`,{value:`mla`,children:`MLA`}),(0,Q.jsx)(`option`,{value:`chicago`,children:`Chicago`})]}),(0,Q.jsxs)(`button`,{className:`button secondary`,type:`button`,disabled:!e,onClick:a,children:[(0,Q.jsx)(T,{size:18,"aria-hidden":`true`}),`MD`]}),(0,Q.jsxs)(`button`,{className:`button secondary`,type:`button`,disabled:!e,onClick:i,children:[(0,Q.jsx)(T,{size:18,"aria-hidden":`true`}),`TeX`]}),(0,Q.jsxs)(`button`,{className:`button primary`,type:`button`,disabled:!e,onClick:r,children:[(0,Q.jsx)(T,{size:18,"aria-hidden":`true`}),`Word`]})]})]}),(0,Q.jsxs)(`div`,{className:`mt-4 grid gap-4 lg:grid-cols-[1.2fr_0.8fr]`,children:[(0,Q.jsx)(`div`,{className:`rounded-lg border border-slate-200 bg-white p-4`,children:e?.outline.length?(0,Q.jsx)(`div`,{className:`space-y-4`,children:e.outline.map(e=>(0,Q.jsxs)(`section`,{children:[(0,Q.jsx)(`h3`,{className:`font-semibold`,children:e.heading}),(0,Q.jsx)(`ul`,{className:`mt-2 list-disc space-y-1 pl-5 text-sm leading-6 text-slate-700`,children:e.bullets.map(e=>(0,Q.jsx)(`li`,{children:e},e))})]},e.id))}):(0,Q.jsx)($,{text:`The outline appears after the first research map is built.`})}),(0,Q.jsxs)(`div`,{className:`rounded-lg border border-slate-200 bg-white p-4`,children:[(0,Q.jsx)(`h3`,{className:`font-semibold`,children:`Citation Keys`}),(0,Q.jsx)(`div`,{className:`mt-3 max-h-72 space-y-2 overflow-auto`,children:e?.citations.length?e.citations.map(e=>(0,Q.jsxs)(`div`,{className:`rounded border border-slate-200 p-2 text-xs`,children:[(0,Q.jsxs)(`code`,{className:`font-semibold text-teal-800`,children:[`@`,e.key]}),(0,Q.jsx)(`p`,{className:`mt-1 text-slate-600`,children:e.bibliography})]},e.paperId)):(0,Q.jsx)(`p`,{className:`text-sm text-slate-600`,children:`No citations yet.`})})]})]})]})}function $({text:e}){return(0,Q.jsx)(`div`,{className:`rounded-lg border border-slate-200 bg-slate-50 p-4 text-sm text-slate-600`,children:e})}function Re({toast:e,onClose:t}){return(0,Q.jsx)(`div`,{className:`fixed bottom-4 right-4 z-20 max-w-sm rounded-lg border p-4 shadow-lg ${e.tone===`error`?`border-rose-200 bg-rose-50 text-rose-950`:e.tone===`success`?`border-emerald-200 bg-emerald-50 text-emerald-950`:`border-blue-200 bg-blue-50 text-blue-950`}`,children:(0,Q.jsxs)(`div`,{className:`flex items-start gap-3`,children:[(0,Q.jsx)(`p`,{className:`text-sm font-medium`,children:e.message}),(0,Q.jsx)(`button`,{className:`text-xs font-semibold`,type:`button`,onClick:t,children:`Close`})]})})}function ze(e){return new Promise((t,n)=>{let r=new Worker(new URL(`/research-flow/assets/analysis.worker-Cd_orrvY.js`,``+import.meta.url),{type:`module`});r.onmessage=e=>{r.terminate(),e.data.ok?t(e.data.result):n(Error(e.data.error))},r.onerror=e=>{r.terminate(),n(Error(e.message))},r.postMessage(e)})}var Be=class extends O.Component{state={};static getDerivedStateFromError(e){return{error:e}}render(){return this.state.error?(0,Q.jsx)(`main`,{className:`min-h-screen bg-slate-50 px-6 py-10 text-slate-950`,children:(0,Q.jsxs)(`section`,{className:`mx-auto max-w-2xl rounded-lg border border-rose-200 bg-white p-6 shadow-sm`,children:[(0,Q.jsx)(`p`,{className:`text-sm font-semibold uppercase tracking-wide text-rose-700`,children:`Research Flow stopped rendering`}),(0,Q.jsx)(`h1`,{className:`mt-2 text-2xl font-semibold`,children:`Something broke in the local workspace.`}),(0,Q.jsx)(`p`,{className:`mt-3 text-slate-700`,children:`Reload the page to recover. Your last saved project is kept in this browser when IndexedDB is available.`}),(0,Q.jsx)(`pre`,{className:`mt-4 overflow-auto rounded bg-slate-950 p-4 text-sm text-white`,children:this.state.error.message})]})}):this.props.children}};function Ve(){`serviceWorker`in navigator&&window.addEventListener(`load`,()=>{navigator.serviceWorker.register(`/research-flow/sw.js`).catch(()=>{})})}var He=new t({defaultOptions:{mutations:{retry:0},queries:{retry:1,staleTime:6e4}}});k.createRoot(document.getElementById(`root`)).render((0,Q.jsx)(O.StrictMode,{children:(0,Q.jsx)(Be,{children:(0,Q.jsx)(r,{client:He,children:(0,Q.jsx)(ke,{})})})})),Ve();
+//# sourceMappingURL=index-DLYIzA8H.js.map

diff --git a/vite.config.ts b/vite.config.ts
@@ -1,13 +1,21 @@
 import tailwindcss from "@tailwindcss/vite";
 import react from "@vitejs/plugin-react";
 import { execSync } from "node:child_process";
-import { readFileSync } from "node:fs";
+import { existsSync, readFileSync } from "node:fs";
 import { resolve } from "node:path";
 import { defineConfig } from "vite";
 
 const packageJson = JSON.parse(readFileSync(resolve("package.json"), "utf8")) as {
   version: string;
 };
+
+const releaseConfigPath = resolve("release.config.json");
+const releaseConfig = existsSync(releaseConfigPath)
+  ? (JSON.parse(readFileSync(releaseConfigPath, "utf8")) as {
+      commit?: string;
+      fullCommit?: string;
+    })
+  : {};
 
 function gitValue(command: string, fallback: string) {
   try {
@@ -19,8 +27,14 @@ function gitValue(command: string, fallback: string) {
   }
 }
 
-const commit = gitValue("git rev-parse --short HEAD", "local");
-const fullCommit = gitValue("git rev-parse HEAD", "local");
+const fullCommit =
+  process.env.VITE_APP_FULL_COMMIT ??
+  releaseConfig.fullCommit ??
+  gitValue("git rev-parse HEAD", "local");
+const commit =
+  process.env.VITE_APP_COMMIT ??
+  releaseConfig.commit ??
+  (fullCommit === "local" ? "local" : fullCommit.slice(0, 7));
 
 export default defineConfig({
   base: "/research-flow/",

diff --git a/docs/404.html b/docs/404.html
@@ -11,7 +11,7 @@
     <link rel="manifest" href="/research-flow/manifest.webmanifest" />
     <link rel="icon" href="/research-flow/research-flow-icon.svg" type="image/svg+xml" />
     <title>Research Flow</title>
-    <script type="module" crossorigin src="/research-flow/assets/index-ZBpHerh_.js"></script>
+    <script type="module" crossorigin src="/research-flow/assets/index-DLYIzA8H.js"></script>
     <link rel="modulepreload" crossorigin href="/research-flow/assets/rolldown-runtime-S-ySWqyJ.js">
     <link rel="modulepreload" crossorigin href="/research-flow/assets/pdf-v2ivPw7M.js">
     <link rel="modulepreload" crossorigin href="/research-flow/assets/vendor-Bxf50lv0.js">

diff --git a/docs/index.html b/docs/index.html
@@ -11,7 +11,7 @@
     <link rel="manifest" href="/research-flow/manifest.webmanifest" />
     <link rel="icon" href="/research-flow/research-flow-icon.svg" type="image/svg+xml" />
     <title>Research Flow</title>
-    <script type="module" crossorigin src="/research-flow/assets/index-ZBpHerh_.js"></script>
+    <script type="module" crossorigin src="/research-flow/assets/index-DLYIzA8H.js"></script>
     <link rel="modulepreload" crossorigin href="/research-flow/assets/rolldown-runtime-S-ySWqyJ.js">
     <link rel="modulepreload" crossorigin href="/research-flow/assets/pdf-v2ivPw7M.js">
     <link rel="modulepreload" crossorigin href="/research-flow/assets/vendor-Bxf50lv0.js">